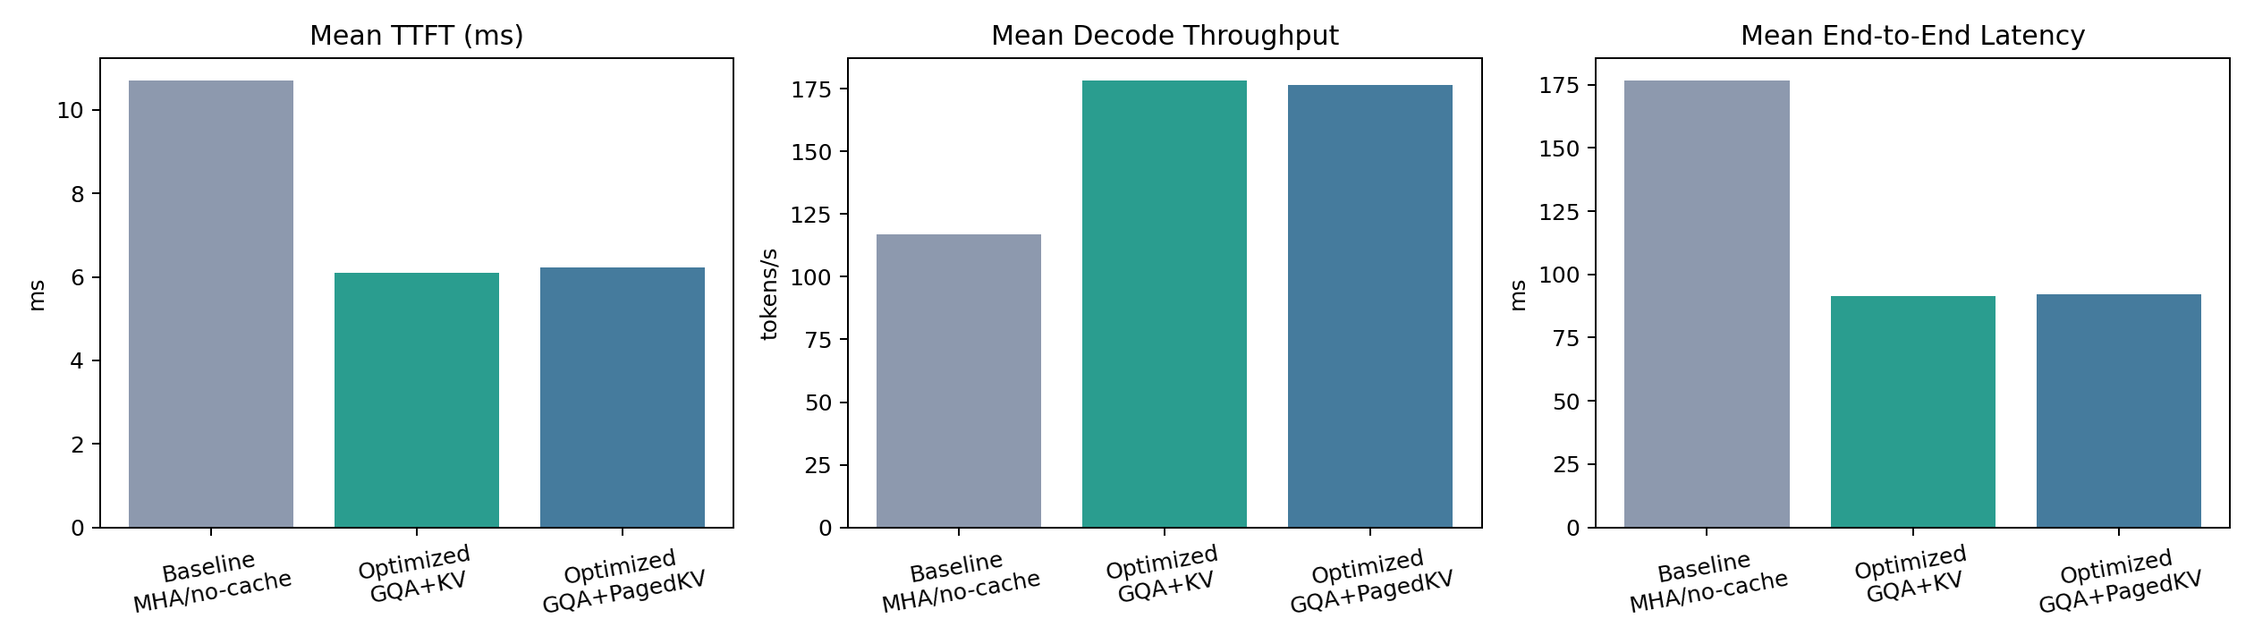
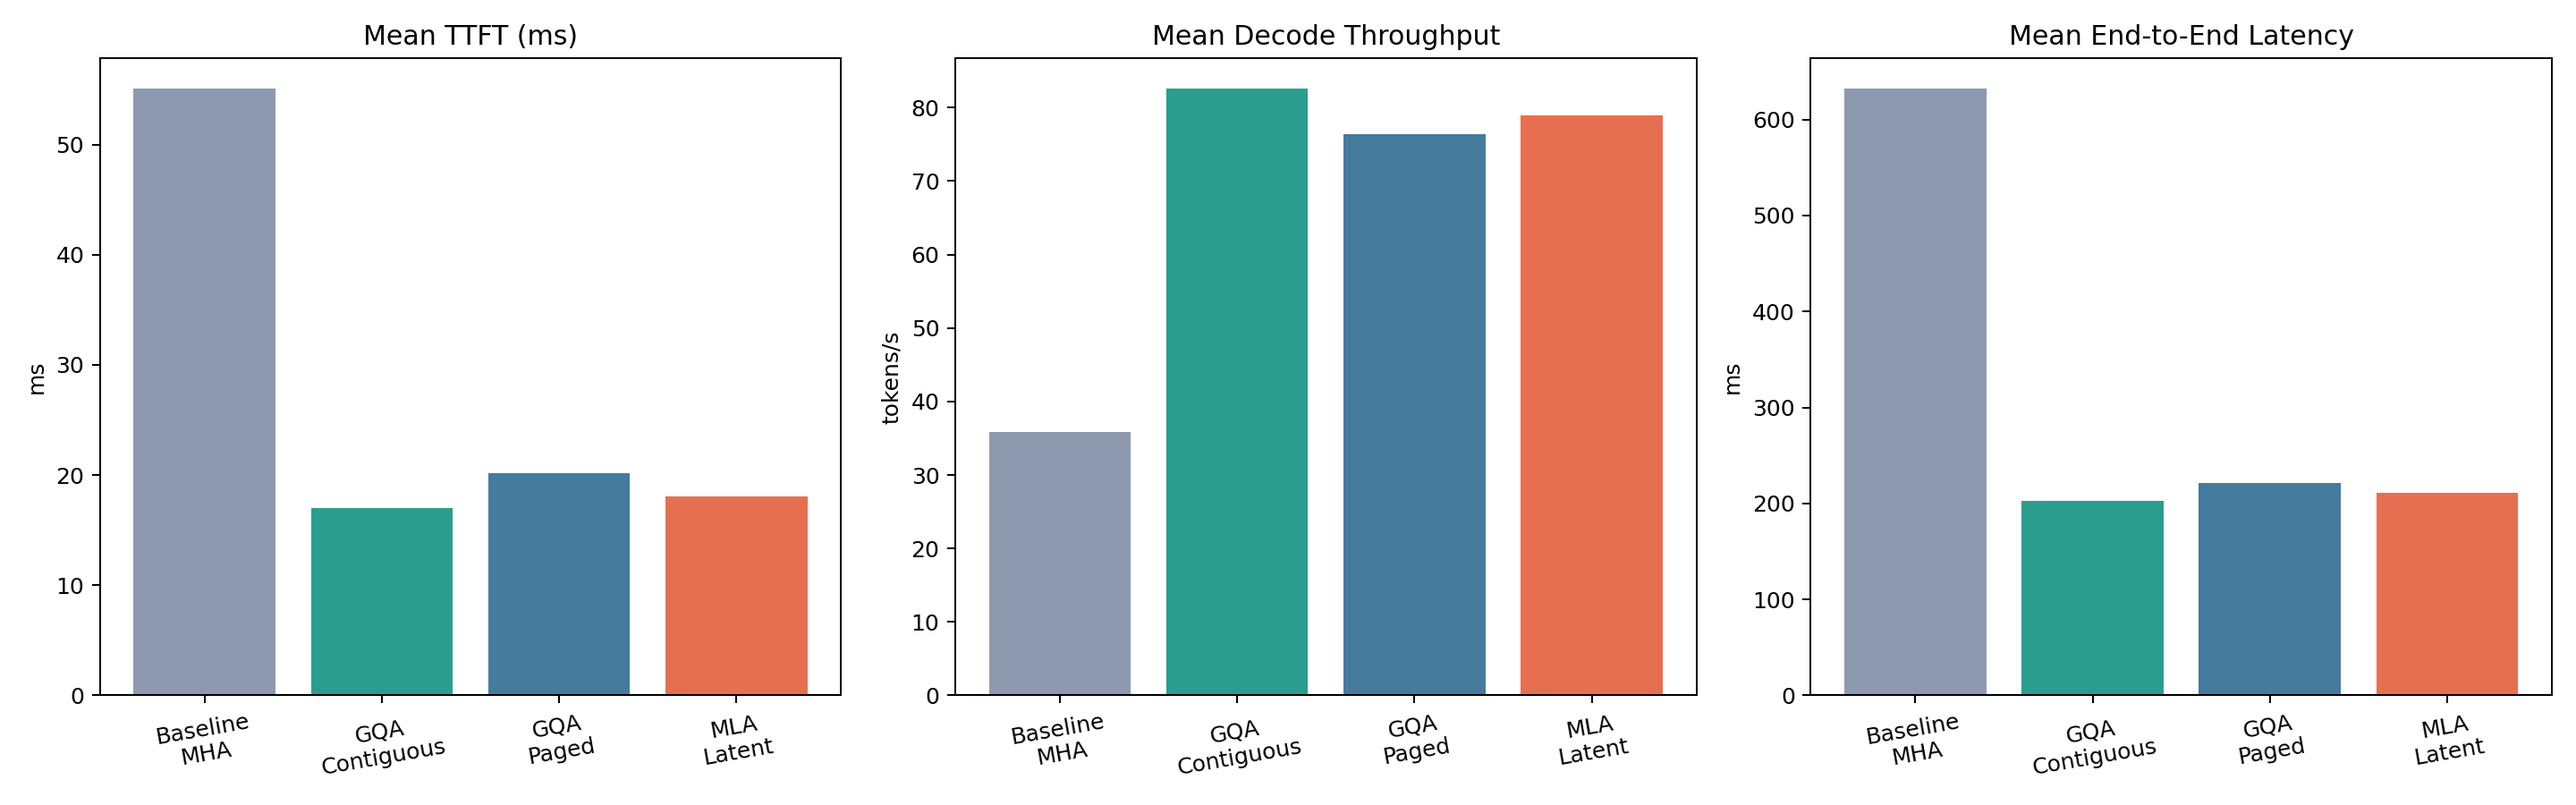
docs: update benchmark results and README for 4-engine comparison
- 4-engine benchmark results (MHA, GQA contiguous, GQA paged, MLA latent)
- MLA KV cache: 63% smaller than GQA, 10.7x smaller than MHA
- Add kv_elements.png chart (elements per token comparison)
- Rewrite README: remove tokendock references, add MLA findings

diff --git a/README.md b/README.md
@@ -1,74 +1,132 @@
-# TokenDock
+# attn-kv-bench
 
-## 초록
+Attention mechanism & KV cache strategy serving benchmark on a controlled toy transformer.
 
-TokenDock은 대규모 언어모델 서빙에서 자주 언급되는 세 가지 최적화 요소인 Grouped-Query Attention, KV cache, 그리고 PagedAttention 계열의 block 기반 KV 메모리 관리가 실제 지연 시간과 처리량에 어떤 차이를 만드는지를 측정하기 위해 작성된 실험용 프로젝트다. 본 프로젝트는 답변 품질 평가를 의도적으로 제외하고, 서빙 경로의 기계적 성능만을 비교한다. Apple Silicon과 MPS 환경에서는 CUDA 커널에 강하게 의존하는 vLLM을 그대로 재현하기 어렵기 때문에, 본 레포는 toy dense transformer를 이용해 동일한 개념을 통제된 조건에서 검증한다. 실험 결과, GQA와 KV cache를 함께 사용한 경로는 baseline 대비 TTFT, decode throughput, end-to-end latency를 모두 개선했으며, block 기반 paged KV 관리 경로는 contiguous cache 대비 peak KV memory를 추가로 낮추는 효과를 보였다.
+MHA, GQA, MLA 세 가지 attention 기법과 KV cache 전략(no-cache, contiguous, paged, latent)이 inference 성능에 미치는 영향을 정량 비교한다. 답변 품질 평가는 의도적으로 제외하고, 서빙 경로의 기계적 성능만을 비교한다.
 
-## 1. 배경
+## Engines
 
-Autoregressive LLM 서빙에서 가장 반복적으로 등장하는 비용은 이전 토큰의 문맥을 다시 계산하는 비용과, 이전 문맥으로부터 만들어진 key-value 상태를 저장하는 비용이다. baseline 구현이 prefix 전체를 매 토큰마다 다시 계산하는 방식이라면, 문맥이 길어질수록 추론 지연은 빠르게 증가한다. 여기에 multi-turn 세션이 겹치면, 이전 턴의 문맥을 얼마나 효율적으로 재사용하느냐가 서비스 수준 지표를 크게 좌우하게 된다. 이 문제를 해결하는 대표적 기법이 KV cache이며, attention 구조 차원에서는 GQA가 KV head 수를 줄여 cache 부담을 완화하고, 시스템 구현 차원에서는 PagedAttention류의 block allocator가 KV 메모리 단편화와 over-allocation을 완화한다.
+| Engine | Attention | KV Cache | KV elements/token |
+|--------|-----------|----------|-------------------|
+| `baseline_mha_no_cache` | MHA (8 heads) | None (recompute) | 512 |
+| `gqa_contiguous_cache` | GQA (2 KV heads) | Contiguous buffer | 128 |
+| `gqa_paged_cache` | GQA (2 KV heads) | Paged blocks (16) | 128 |
+| `mla_latent_cache` | MLA (rank 48) | Compressed latent | **48** |
 
-## 2. 목표
+## Results
 
-이 프로젝트의 목표는 하나의 거대한 모델을 잘 서빙하는 것이 아니라, 서빙 최적화 기법이 성능 지표에 미치는 영향을 재현 가능하게 보여주는 것이다. 이를 위해 baseline 경로로는 vanilla multi-head attention과 no-cache 경로를 사용하고, 최적화 경로로는 GQA와 persistent KV cache를 결합한 엔진, 그리고 여기에 block 단위 KV 메모리 관리 기법을 추가한 엔진을 사용했다. 최종 출력은 사람이 읽기 쉬운 JSON 파일과 PNG 시각화 자료이며, 어떤 multi-turn 질문 세트를 기준으로 측정했는지도 결과 안에 함께 포함한다.
+> Apple M5 Pro / MPS, toy transformer (6L, 256d, 8H), 4 sessions x 7 turns, 3 measurement runs
 
-## 3. 방법
+### Latency & Throughput
 
-직접 비교한 엔진은 세 가지다. 첫 번째는 `baseline_mha_no_cache`로, 모든 토큰 생성 단계에서 prefix 전체를 다시 계산하는 가장 단순한 방식이다. 두 번째는 `gqa_contiguous_cache`로, query head와 key-value head를 분리하는 GQA를 적용하고 이전 토큰의 KV를 연속 버퍼에 유지하는 방식이다. 세 번째는 `gqa_paged_cache`로, GQA와 persistent KV cache를 유지하면서도 KV 메모리를 고정 크기 block 단위로 관리하여 PagedAttention의 핵심 아이디어를 반영한 방식이다. 이 설계는 vLLM의 PagedAttention에서 직접 영감을 받았지만, 본 레포는 CUDA 커널 재현이 아니라 개념적 효과의 재현을 목표로 한다.
+![Latency & Throughput](assets/latency_throughput.png)
 
-구현의 핵심 코드는 [engines.py](/Users/drlee/workspace/dev/tokendock/tokendock/engines.py), [benchmark.py](/Users/drlee/workspace/dev/tokendock/tokendock/benchmark.py), [workload.py](/Users/drlee/workspace/dev/tokendock/tokendock/workload.py), [plots.py](/Users/drlee/workspace/dev/tokendock/tokendock/plots.py)에 있다. 모델 설정은 [config.py](/Users/drlee/workspace/dev/tokendock/tokendock/config.py)에 정리돼 있으며, 실험에 사용한 toy dense transformer는 `hidden_size=256`, `layers=6`, `query heads=8`, `KV heads=2`, `max_seq_len=1024` 설정으로 동작한다.
+| Engine | Mean TTFT | Decode TPS | End-to-End | vs Baseline |
+|--------|-----------|------------|------------|-------------|
+| Baseline MHA | 55.1 ms | 35.8 tok/s | 632.0 ms | - |
+| GQA Contiguous | 17.0 ms | 82.6 tok/s | 203.1 ms | TTFT -69%, TPS +131% |
+| GQA Paged | 20.2 ms | 76.4 tok/s | 221.3 ms | TTFT -63%, TPS +113% |
+| MLA Latent | 18.1 ms | 79.0 tok/s | 211.1 ms | TTFT -67%, TPS +121% |
 
-## 4. 실험 환경
-
-실험은 Apple Silicon / MPS 환경에서 실행되었다. 따라서 본 결과는 “CUDA 기반 production serving 절대 수치”가 아니라, 동일한 하드웨어와 동일한 toy 모델에서 최적화 기법 간의 상대 비교 결과로 해석해야 한다. 벤치마크는 warmup 이후 세 번의 측정 실행을 수행하고, 각 실행은 네 개의 multi-turn 세션을 포함한다. 한 세션은 일곱 개의 턴으로 구성되며, 각 턴마다 이전 문맥을 계속 유지하도록 설계되어 KV cache 재사용 효과가 드러나게 했다.
-
-실행은 아래 두 명령으로 재현할 수 있다.
-
-```bash
-cd ~/workspace/dev/tokendock
-uv sync
-uv run src/benchmark.py
-uv run src/plot_results.py
-```
-
-## 5. 워크로드
-
-벤치마크는 단순한 한 문장 프롬프트가 아니라, 운영 로그 해석과 장기 문맥 유지를 요구하는 multi-turn 세션으로 구성된다. 예를 들어 수조 관찰 및 이벤트 추론 세션은 물살 변화, 그림자, 유리 진동, 먹이, 조명 변화 같은 사건을 여러 턴에 걸쳐 누적시키며, 후반부 질문은 앞선 모든 턴을 기억하고 응답해야 한다. 다른 세션들은 프로젝트 로그 요약, 공급망 이상 탐지, 시스템 지연 원인 분석과 같은 형태를 띤다. 전체 질문 원문은 [benchmark_results.json](/Users/drlee/workspace/dev/tokendock/results/benchmark_results.json)의 `workload.sessions` 항목에 그대로 포함되어 있다.
-
-## 6. 정량 결과
-
-최신 결과 JSON는 [benchmark_results.json](/Users/drlee/workspace/dev/tokendock/results/benchmark_results.json)에 저장된다. 현재 측정 기준으로 `gqa_contiguous_cache`는 baseline 대비 mean TTFT를 45.908% 줄였고, mean decode tokens/s를 56.548% 높였으며, mean total latency를 50.819% 줄였다. `gqa_paged_cache` 역시 baseline 대비 mean TTFT를 44.134% 줄였고, mean decode tokens/s를 50.504% 높였으며, mean total latency를 48.772% 줄였다. 추가로 `gqa_paged_cache`는 contiguous cache 대비 peak KV memory를 22.727% 감소시켰다. 즉, GQA와 KV cache는 직접적인 속도 이득을 만들었고, paged KV 관리 방식은 그 위에 메모리 효율을 개선하는 방향으로 작동했다.
-
-## 7. 시각화
-
-아래 그림은 baseline과 두 최적화 경로 사이의 평균 지연 시간과 처리량을 비교한다.
-
-![Latency and Throughput](assets/latency_throughput.png)
-
-그림 파일은 [latency_throughput.png](/Users/drlee/workspace/dev/tokendock/assets/latency_throughput.png)에 있다. 그림을 보면 두 최적화 경로 모두 baseline보다 mean TTFT와 end-to-end latency가 낮고, decode throughput은 더 높게 나타난다. 이는 prefix 재계산 제거와 GQA 도입이 직접적인 서빙 성능 향상으로 이어졌음을 보여준다.
-
-아래 그림은 peak KV memory 사용량을 비교한다.
+### KV Cache Memory
 
 ![KV Memory](assets/kv_memory.png)
 
-그림 파일은 [kv_memory.png](/Users/drlee/workspace/dev/tokendock/assets/kv_memory.png)에 있다. contiguous cache와 비교했을 때 paged KV manager는 peak KV bytes를 더 낮게 유지한다. 다시 말해 PagedAttention-style block 관리의 주요 이점은 속도보다는 메모리 압박 완화에서 더 분명하게 관찰된다.
+| Engine | Peak KV Bytes | vs GQA Contiguous |
+|--------|--------------|-------------------|
+| GQA Contiguous | 6,488,064 | - |
+| GQA Paged | 5,013,504 | -23% |
+| **MLA Latent** | **2,433,024** | **-63%** |
 
-## 8. 논의
+### KV Cache Elements per Token
 
-이 실험이 보여주는 가장 중요한 사실은, KV cache를 도입하지 않은 baseline은 문맥 길이가 길어질수록 prefix를 반복 계산하느라 지연과 처리량 모두에서 빠르게 불리해진다는 점이다. 반대로 GQA와 KV cache를 도입하면 attention 경로가 더 적은 KV head를 다루고, 이전 문맥을 반복 계산하지 않아도 되기 때문에 TTFT와 total latency가 함께 내려간다. 여기에 paged KV 관리까지 더하면 contiguous cache와 비교해 속도 차이는 크지 않을 수 있으나, 메모리 사용량을 더 촘촘하게 관리할 수 있어 장기적으로는 더 많은 동시 요청이나 더 긴 문맥에 유리한 방향을 만든다.
+![KV Elements](assets/kv_elements.png)
 
-## 9. 한계
+MLA는 KV를 low-rank latent(rank=48)로 압축하여 토큰당 캐시 크기를 MHA 대비 **10.7x**, GQA 대비 **2.7x** 절감한다.
 
-이 프로젝트는 공개 ~2B 모델을 직접 서빙해 얻은 결과가 아니다. 현재 머신이 Apple Silicon / MPS이기 때문에, CUDA 커널과 vLLM 런타임을 그대로 재현하는 것은 비현실적이었다. 따라서 본 실험은 “vLLM의 핵심 아이디어를 toy dense transformer 위에 구현해 상대 비교를 수행한 결과”로 읽는 것이 맞다. 그럼에도 불구하고 구조적으로 무엇이 속도 개선을 만들고, 무엇이 메모리 압박을 줄이는지는 충분히 분리해서 관찰할 수 있다.
+## Key Findings
 
-## 10. 재현 산출물
+1. **GQA + KV cache**: Baseline MHA 대비 TTFT 69% 감소, 처리량 131% 증가. KV cache 도입 효과가 지배적
+2. **MLA vs GQA**: 처리 속도는 GQA와 동등하면서 KV cache 메모리를 **63% 추가 절감**
+3. **Paged vs Contiguous**: PagedAttention은 메모리 23% 절감하나 throughput 소폭 감소 (block 재조립 오버헤드)
+4. **MLA trade-off**: decompression 연산(up-projection)이 추가되지만, cache 크기 절감이 메모리 바운드 시나리오에서 유리
 
-최종 산출물은 세 가지다. 첫째, [benchmark_results.json](/Users/drlee/workspace/dev/tokendock/results/benchmark_results.json)은 벤치마크 환경, 모델 설정, 전체 multi-turn 세션 원문, 엔진별 요약 지표, 비교 지표, 최종 결론을 모두 포함한 구조화된 JSON이다. 둘째, [latency_throughput.png](/Users/drlee/workspace/dev/tokendock/assets/latency_throughput.png)은 속도 중심 비교를 위한 시각화다. 셋째, [kv_memory.png](/Users/drlee/workspace/dev/tokendock/assets/kv_memory.png)은 메모리 효율 비교를 위한 시각화다.
+## Architecture
 
-## 11. 참고 문헌
+```
+ToyLM (6 layers, hidden=256, heads=8)
+  +-- TransformerBlock x 6
+       +-- RMSNorm -> Attention -> RMSNorm -> MLP
+       +-- Attention variants:
+            StandardAttention (MHA / GQA)
+            MLAAttention (low-rank KV compression)
+  +-- KV Cache variants:
+       ContiguousKVCache  -- dynamic doubling buffer
+       PagedKVCache       -- fixed block pool (PagedAttention-style)
+       LatentKVCache      -- compressed latent buffer (MLA-specific)
+```
 
-PagedAttention 및 vLLM의 핵심 아이디어는 `Efficient Memory Management for Large Language Model Serving with PagedAttention` 논문과 vLLM 블로그를 참고했다. GQA의 구조적 배경은 `GQA: Training Generalized Multi-Query Transformer Models from Multi-Head Checkpoints`를 참고했다.
+### MLA Attention Flow
 
-- https://arxiv.org/abs/2309.06180  
-- https://vllm.ai/blog/vllm  
-- https://arxiv.org/abs/2305.13245
+```
+hidden_states [batch, seq, 256]
+    |
+    +---> q_proj --------------------------> Q [batch, 8, seq, 32]
+    |
+    +---> kv_down_proj -> [rank=48]           <- cache this (compressed)
+              |
+          RMSNorm
+              |
+          kv_up_proj -> per-head K, V         <- decompress at attention time
+              |
+    Q @ K^T -> softmax -> @ V -> o_proj -> output
+```
+
+## Workload
+
+벤치마크 워크로드는 단순 단일 프롬프트가 아니라, 장기 문맥 유지를 요구하는 multi-turn 세션으로 구성된다.
+
+- 4개 세션 x 7개 턴 = 28 samples/run
+- 세션 주제: 수조 관찰 라우팅, 프로젝트 로그 분석, 공급망 이상 탐지, 시스템 지연 분석
+- 후반부 질문이 앞선 모든 턴의 문맥에 의존하도록 설계하여 KV cache 재사용 효과가 드러나게 함
+
+## Quick Start
+
+```bash
+uv sync
+uv run python scripts/run_benchmark.py    # 4-engine benchmark
+uv run python scripts/run_plots.py        # generate charts
+```
+
+## Project Structure
+
+```
+kvbench/
+  __init__.py
+  __main__.py
+  config.py          # ModelConfig (MLA params included) + BenchmarkConfig
+  tokenizer.py       # ByteTokenizer
+  engines.py         # Attention modules + KV caches + 4 serving engines
+  benchmark.py       # 4-way benchmark runner
+  workload.py        # Multi-turn conversation workloads
+  plots.py           # Visualization (3 charts)
+scripts/
+  run_benchmark.py
+  run_plots.py
+results/
+  benchmark_results.json
+  plots/
+assets/              # README images
+```
+
+## Limitations
+
+- Apple Silicon / MPS 환경 실험이므로 CUDA 절대 수치와 직접 비교 불가
+- Toy transformer (6L, 256d) 대상으로 상대 비교 목적
+- MLA 구현은 Decoupled RoPE를 생략한 simplified 버전 (KV 압축 효과 검증에 집중)
+
+## References
+
+- [GQA: Training Generalized Multi-Query Transformer Models from Multi-Head Checkpoints](https://arxiv.org/abs/2305.13245)
+- [DeepSeek-V2: A Strong, Economical, and Efficient MoE Language Model (MLA)](https://arxiv.org/abs/2405.04434)
+- [Efficient Memory Management for Large Language Model Serving with PagedAttention](https://arxiv.org/abs/2309.06180)
